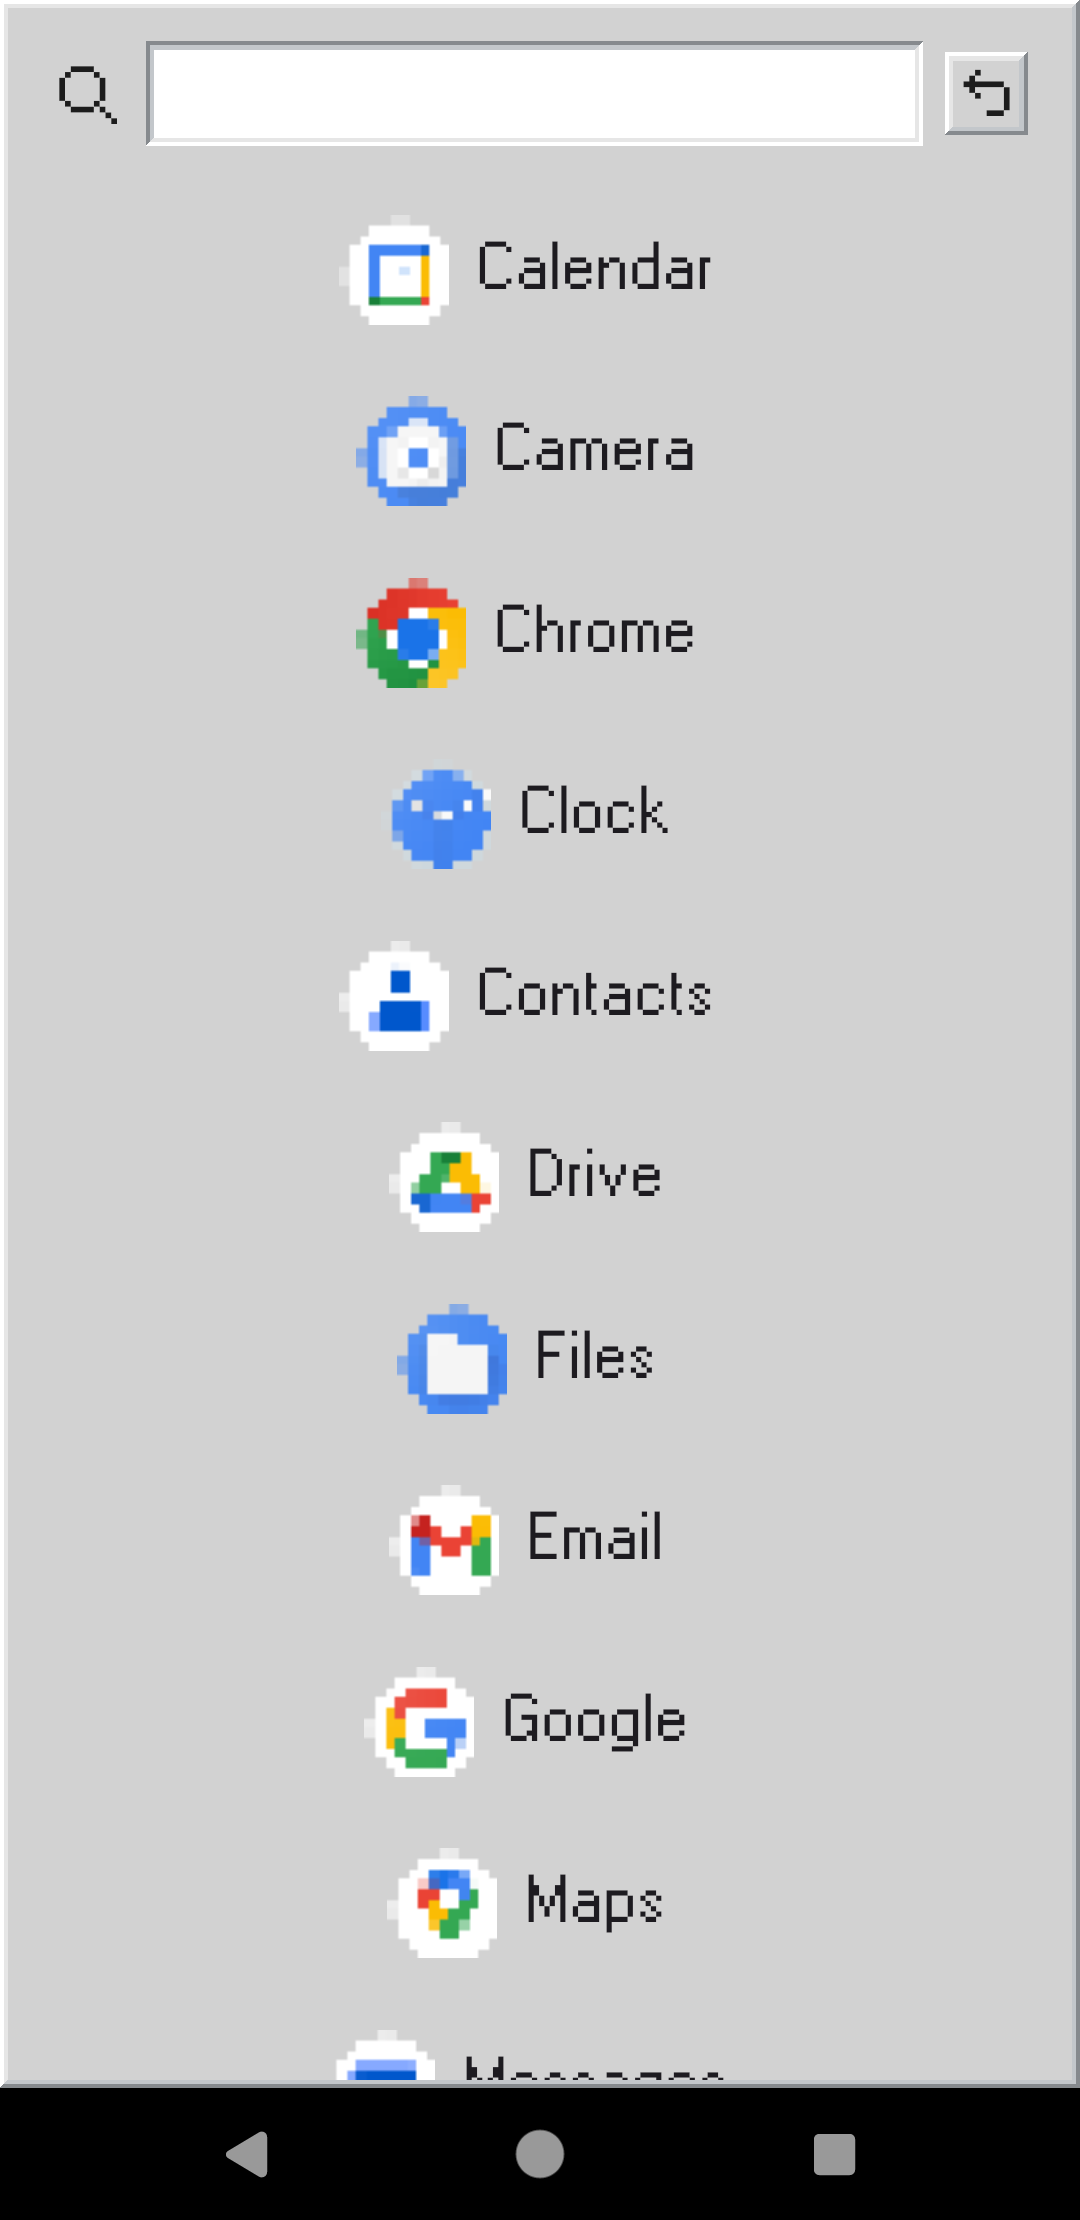
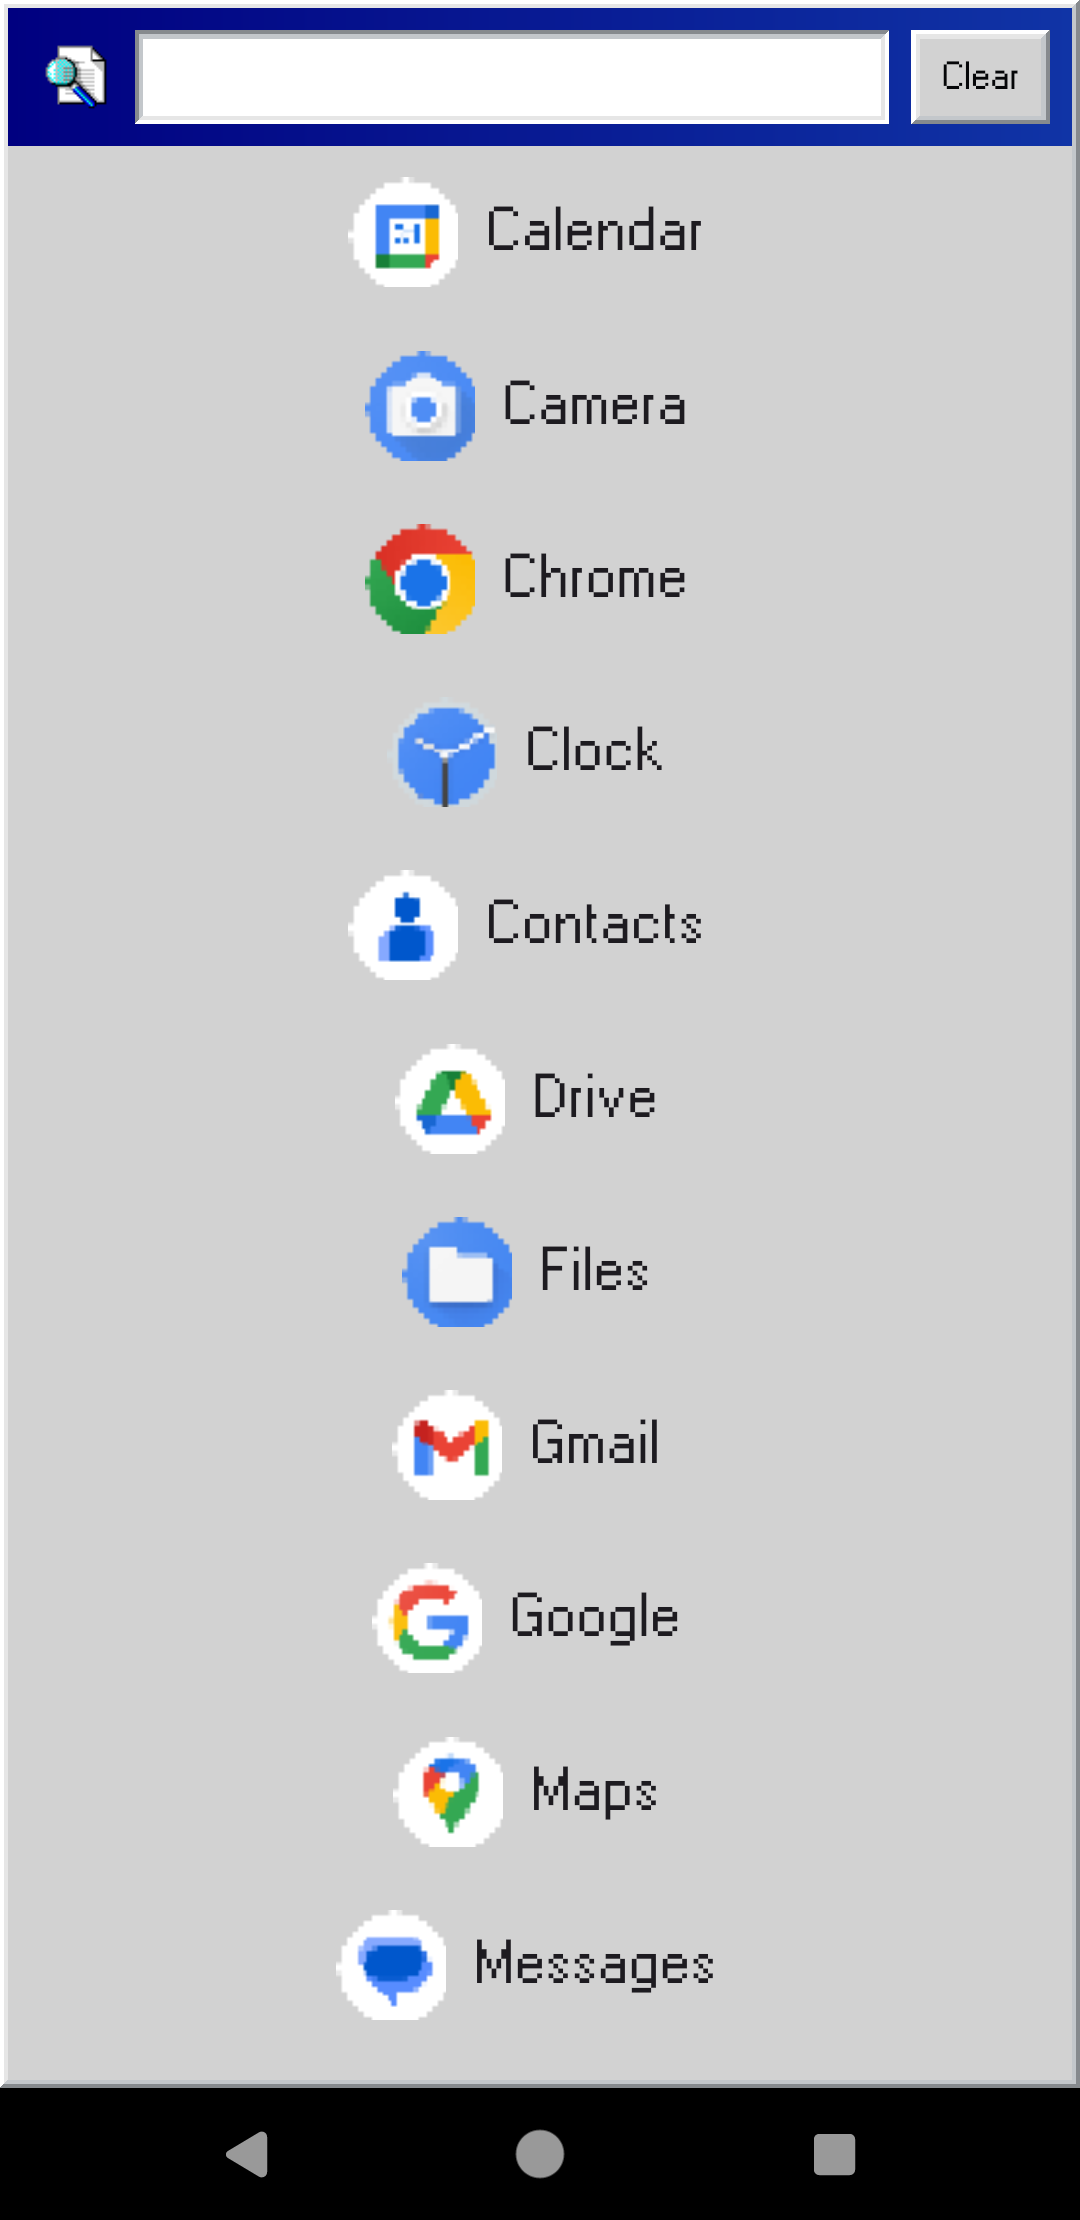
Fix home scroll and update images

Changed region(s): [[0.0, 0.0, 1.0, 0.9635]]

diff --git a/lib/components/window_widget.dart b/lib/components/window_widget.dart
@@ -2,65 +2,69 @@ import 'package:flutter/material.dart';
 import 'package:flutter95/flutter95.dart';
 
 class WindowWidget extends StatelessWidget {
-  const WindowWidget({super.key, required this.child});
+  const WindowWidget({super.key, required this.child, this.scrollController});
 
   final Widget child;
+  final ScrollController? scrollController;
 
   @override
   Widget build(BuildContext context) {
     return Elevation95(
-      child: Column(
-        mainAxisSize: MainAxisSize.min,
-        crossAxisAlignment: CrossAxisAlignment.center,
-        children: [
-          SizedBox(
-            height: 33,
-            child: Padding(
-              padding: const EdgeInsets.only(top: 2.0, left: 2.0, right: 2.0),
-              child: Container(
-                height: 33,
-                decoration: const BoxDecoration(
-                  gradient: LinearGradient(
-                    colors: [Flutter95.headerDark, Flutter95.headerLight],
+      child: SingleChildScrollView(
+        controller: scrollController,
+        child: Column(
+          mainAxisSize: MainAxisSize.min,
+          crossAxisAlignment: CrossAxisAlignment.center,
+          children: [
+            SizedBox(
+              height: 33,
+              child: Padding(
+                padding: const EdgeInsets.only(top: 2.0, left: 2.0, right: 2.0),
+                child: Container(
+                  height: 33,
+                  decoration: const BoxDecoration(
+                    gradient: LinearGradient(
+                      colors: [Flutter95.headerDark, Flutter95.headerLight],
+                    ),
+                  ),
+                  child: Row(
+                    children: [
+                      Padding(
+                        padding: const EdgeInsets.symmetric(horizontal: 8.0),
+                        child: Image.asset(
+                          'assets/icons/programs.ico',
+                          height: 20,
+                          fit: BoxFit.cover,
+                        ),
+                      ),
+                      Text('Applications', style: Flutter95.headerTextStyle),
+                      const Spacer(),
+                      headerButton(icon: Icons.minimize, onTap: () {}),
+                      headerButton(
+                        icon: Icons.check_box_outline_blank,
+                        onTap: () {},
+                      ),
+                      const SizedBox(width: 2),
+                      headerButton(icon: Icons.close, onTap: () {}),
+                      const SizedBox(width: 4),
+                    ],
                   ),
                 ),
-                child: Row(
-                  children: [
-                    Padding(
-                      padding: const EdgeInsets.symmetric(horizontal: 8.0),
-                      child: Image.asset(
-                        'assets/icons/programs.ico',
-                        height: 20,
-                        fit: BoxFit.cover,
-                      ),
-                    ),
-                    Text('Applications', style: Flutter95.headerTextStyle),
-                    const Spacer(),
-                    headerButton(icon: Icons.minimize, onTap: () {}),
-                    headerButton(
-                      icon: Icons.check_box_outline_blank,
-                      onTap: () {},
-                    ),
-                    const SizedBox(width: 2),
-                    headerButton(icon: Icons.close, onTap: () {}),
-                    const SizedBox(width: 4),
-                  ],
+              ),
+            ),
+            Container(
+              padding: const EdgeInsets.all(4.0),
+              child: Elevation95(
+                type: Elevation95Type.down,
+                child: Container(
+                  padding: const EdgeInsets.only(bottom: 20),
+                  color: Colors.white,
+                  child: child,
                 ),
               ),
             ),
-          ),
-          Container(
-            padding: const EdgeInsets.all(4.0),
-            child: Elevation95(
-              type: Elevation95Type.down,
-              child: Container(
-                padding: const EdgeInsets.only(bottom: 20),
-                color: Colors.white,
-                child: child,
-              ),
-            ),
-          ),
-        ],
+          ],
+        ),
       ),
     );
   }

diff --git a/lib/screens/home_screen.dart b/lib/screens/home_screen.dart
@@ -150,8 +150,9 @@ class _HomeScreenState extends State<HomeScreen> {
                         ? SizedBox()
                         : OrientationBuilder(
                             builder: (context, orientation) => WindowWidget(
+                              scrollController: _scrollController,
                               child: GridView.builder(
-                                controller: _scrollController,
+                                physics: NeverScrollableScrollPhysics(),
                                 shrinkWrap: true,
                                 itemCount: watchSettings.shortcutNum.toInt(),
                                 gridDelegate:

diff --git a/CHANGELOG.md b/CHANGELOG.md
@@ -2,7 +2,7 @@
 
 ## v2.0.0
 
-- Redesigned the home screen
+- Redesigned a lot of the app
 - Added option in settings to clear specific or all renamed apps
 - Added app icon toggle for home and drawer screens as well as controls for app icon size
   - Toggle for pixelation amount that shrinks and resizes images for pixel look

diff --git a/README.md b/README.md
@@ -31,4 +31,3 @@ Feel free to support me and my work through any of these platforms:
 - Add feature to import/export launcher settings
   - Add error handling for imported settings with custom name for app that don't exist anymore (or save forever, idk)
 - Add dark theme (Distant Goal)
-- Change look of search in app list
